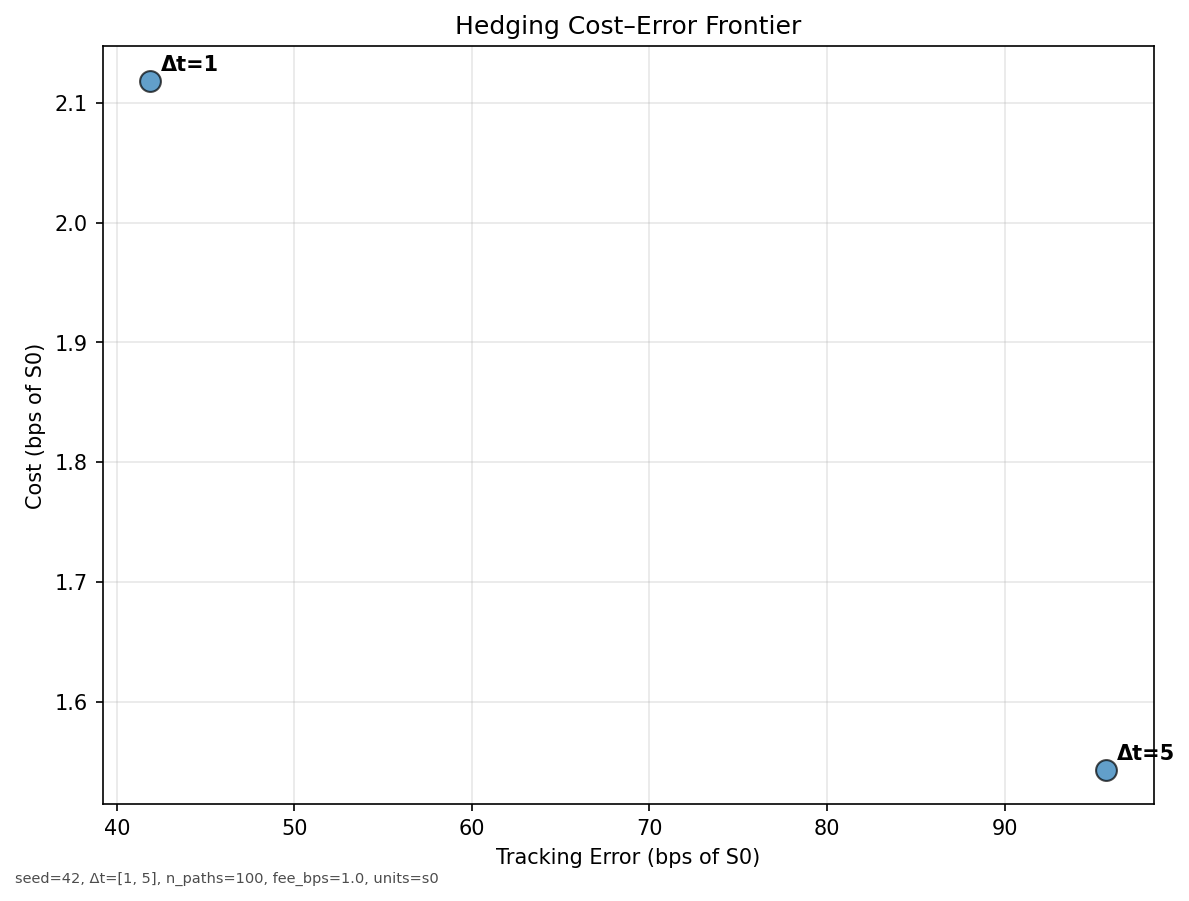
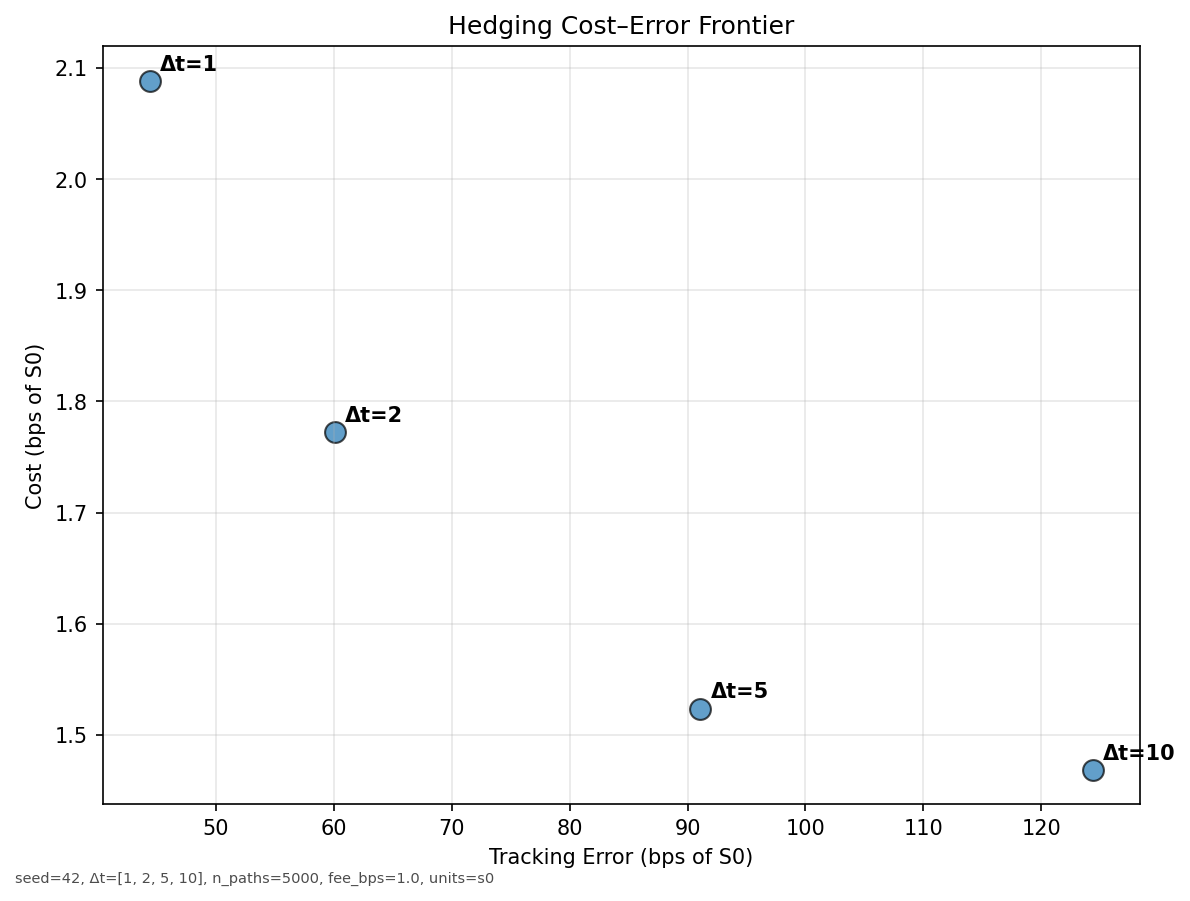
feat: Update default rebalance frequencies to show meaningful frontier plot
- Change default --rebalance-every from '1' to '1,2,5,10'
- Update README repro command and flags table to reflect new default
- Now frontier plot shows 4 points instead of 2, demonstrating the cost-error trade-off
- Users can still override with custom comma-separated values

diff --git a/scripts/run_hedge.py b/scripts/run_hedge.py
@@ -45,7 +45,7 @@ def parse_args():
     parser.add_argument(
         "--rebalance-every",
         type=str,
-        default="1",
+        default="1,2,5,10",
         help=(
             "Rebalance frequency(s) (in steps). Use comma-separated list for "
             "multiple values, e.g., '1,2,5,10'"

diff --git a/README.md b/README.md
@@ -69,7 +69,7 @@ pip install -e .
 
 | Flag | Meaning | Default | Example |
 |---|---|---|---|
-| --rebalance-every | Steps between hedges (comma list OK) | 1 | --rebalance-every 1,2,5 |
+| --rebalance-every | Steps between hedges (comma list OK) | 1,2,5,10 | --rebalance-every 1,2,5 |
 | --fee-bps | Proportional fee in bps | 10.0 | --fee-bps 1.0 |
 | --units | Denominator for TE/Cost | s0 | --units premium |
 | --n-paths | Monte Carlo paths | 100000 | --n-paths 200000 |
@@ -262,7 +262,7 @@ Monte Carlo option pricing performance comparison.
 **Repro:**
 ```bash
 python scripts/run_hedge.py --S0 100 --K 100 --T 0.5 --r 0.02 --sigma 0.2 \
-  --option-type call --n-paths 100000 --rebalance-every 1 --fee-bps 1.0
+  --option-type call --n-paths 100000 --rebalance-every 1,2,5,10 --fee-bps 1.0
 ```
 
 **Quick example (multi-Δt with premium units):**
